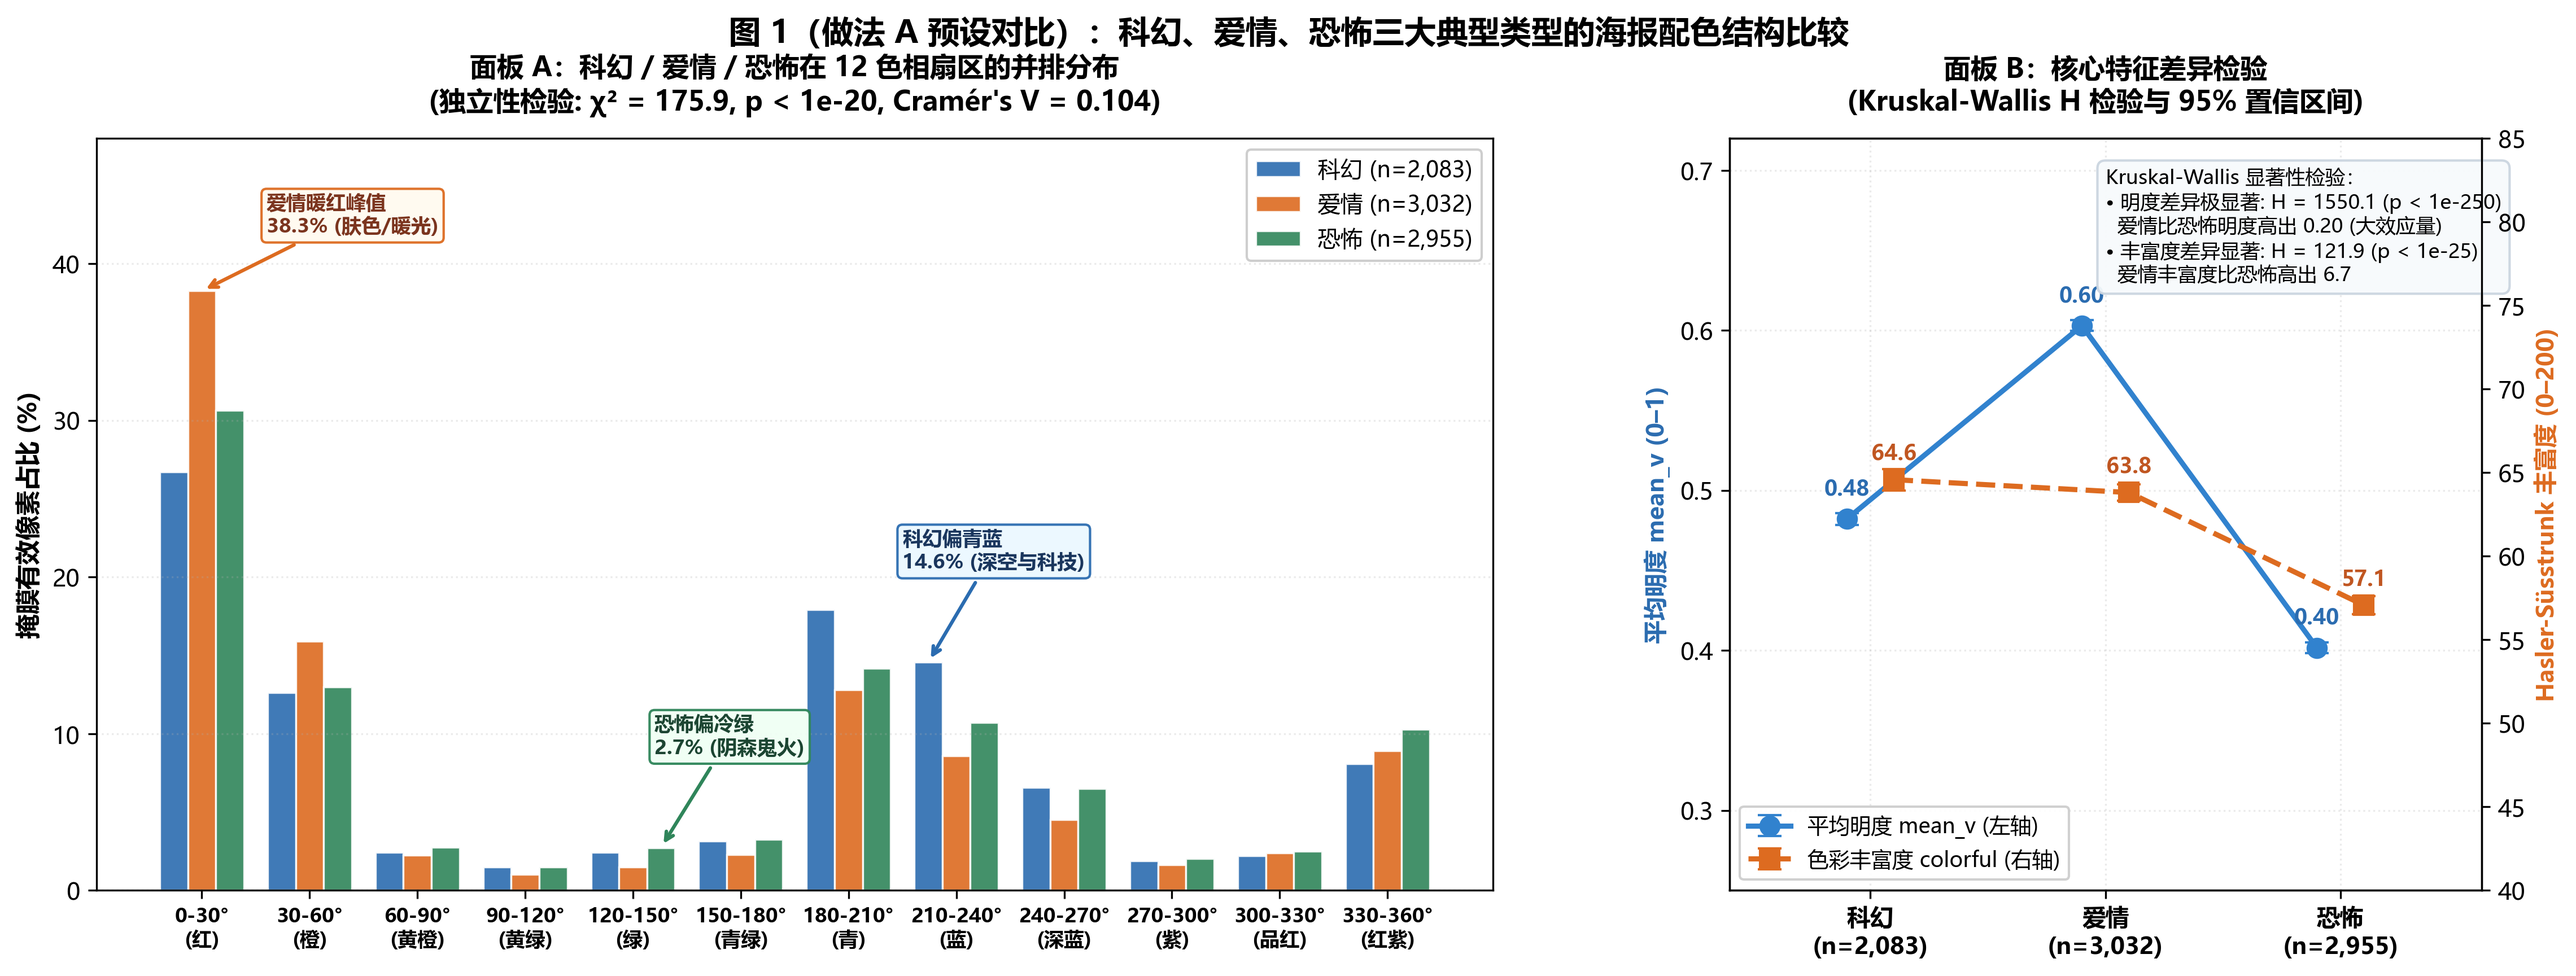
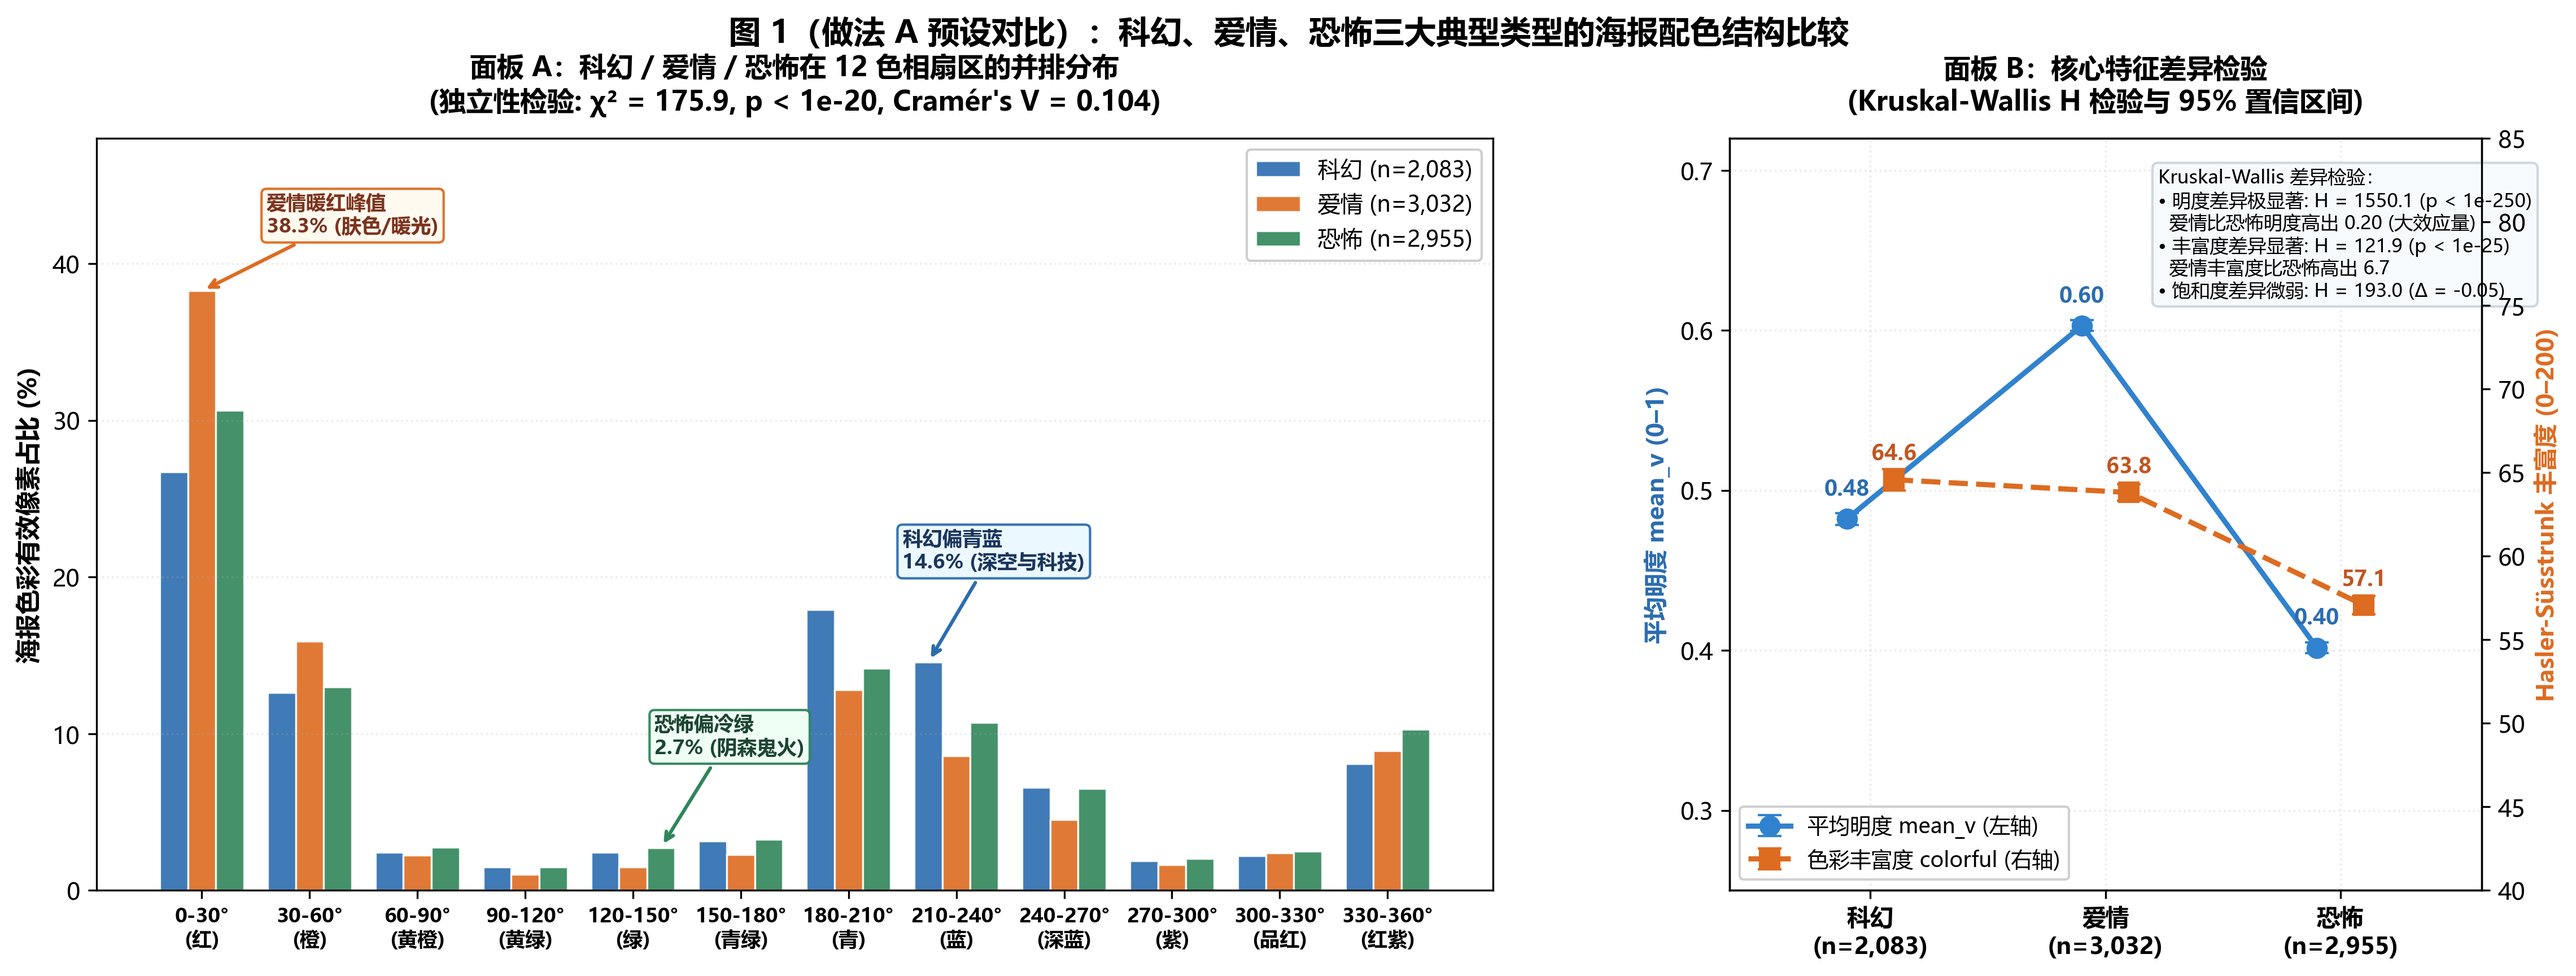
feat(member-b): refine visualization typography, anchor cluster centroids, and eliminate jargon

Changed region(s): [[0.8093, 0.1562, 0.9961, 0.3123], [0.0, 0.3748, 0.0311, 0.6871]]

diff --git a/outputs/b/fig1_hue.py b/outputs/b/fig1_hue.py
@@ -142,31 +142,47 @@ def render_fig1_spectacular(df_u):
         
     ax_a.scatter(thetas, radii, c=point_colors, s=12, alpha=0.55, edgecolors='none', zorder=3)
     
-    # 标出 4 个色型的聚类中心与聚集光晕 (严格控制在极坐标盘内四周，防止溢出到面板 B)
-    # 1. 冷光青蓝区 (210°~240°) - 放置在左下角
-    ax_a.annotate('【冷光青蓝区】\n青蓝波段 (225° 聚集)',
-                  xy=(np.radians(225), 0.75), xytext=(np.radians(220), 1.25),
+    # 计算 4 个色型的经验物理质心坐标 (圆均值色相与均值饱和度)
+    centroids = {}
+    for c_id in range(4):
+        c_sub = df_u[df_u['cluster'] == c_id]
+        rad_vals = np.radians(c_sub['hue'])
+        mean_sin = np.sin(rad_vals).mean()
+        mean_cos = np.cos(rad_vals).mean()
+        c_theta = np.arctan2(mean_sin, mean_cos) % (2 * np.pi)
+        c_sat = c_sub['mean_s'].mean()
+        centroids[c_id] = (c_theta, c_sat)
+
+    # 在极坐标星云中显式绘制 4 个质心锚点星标 (代表算法实际收敛中心)
+    for c_id, (cth, csat) in centroids.items():
+        ax_a.scatter([cth], [csat], marker='*', s=260, color=CLUSTER_BASE_COLORS[c_id],
+                     edgecolor='white', lw=1.6, zorder=8)
+
+    # 标出 4 个色型的聚类中心引线 (严格对准实测质心物理坐标)
+    # 1. 冷光青蓝区
+    ax_a.annotate('【冷光青蓝区】\n青蓝波段 (质心 225°)',
+                  xy=(centroids[0][0], centroids[0][1]), xytext=(np.radians(220), 1.25),
                   arrowprops=dict(arrowstyle="->", color='#2b6cb0', lw=1.5),
                   fontsize=8, fontweight='bold', color='#1a365d', ha='center',
                   bbox=dict(boxstyle="round,pad=0.25", fc='#ebf8ff', ec='#3182ce', alpha=0.92))
     
-    # 2. 高饱和艳丽区 (15°~45° 外圈) - 放置在右上角
-    ax_a.annotate('【高饱和艳丽区】\n高浓多彩 (外圈高饱和)',
-                  xy=(np.radians(30), 0.82), xytext=(np.radians(45), 1.28),
+    # 2. 高饱和艳丽区
+    ax_a.annotate('【高饱和艳丽区】\n高浓多彩 (高饱和外圈)',
+                  xy=(centroids[2][0], centroids[2][1]), xytext=(np.radians(45), 1.28),
                   arrowprops=dict(arrowstyle="->", color='#d69e2e', lw=1.5),
                   fontsize=8, fontweight='bold', color='#744210', ha='center',
                   bbox=dict(boxstyle="round,pad=0.25", fc='#fffaf0', ec='#d69e2e', alpha=0.92))
     
-    # 3. 极致暗黑区 (内圈暗黑) - 放置在右下角
-    ax_a.annotate('【极致暗黑区】\n低明度暗核 (极低明度)',
-                  xy=(np.radians(335), 0.30), xytext=(np.radians(315), 1.25),
+    # 3. 极致暗黑区
+    ax_a.annotate('【极致暗黑区】\n低明度暗核 (质心 V=0.28)',
+                  xy=(centroids[1][0], centroids[1][1]), xytext=(np.radians(315), 1.25),
                   arrowprops=dict(arrowstyle="->", color='#2d3748', lw=1.5),
                   fontsize=8, fontweight='bold', color='#1a202c', ha='center',
                   bbox=dict(boxstyle="round,pad=0.25", fc='#f7fafc', ec='#4a5568', alpha=0.92))
     
-    # 4. 高亮通透区 (15°~30° 中低饱和) - 放置在西北角 (135°)
-    ax_a.annotate('【高亮通透区】\n高调亮白 (高明度通透)',
-                  xy=(np.radians(15), 0.45), xytext=(np.radians(135), 1.25),
+    # 4. 高亮通透区
+    ax_a.annotate('【高亮通透区】\n高调亮白 (质心 V=0.74)',
+                  xy=(centroids[3][0], centroids[3][1]), xytext=(np.radians(135), 1.25),
                   arrowprops=dict(arrowstyle="->", color='#e53e3e', lw=1.5),
                   fontsize=8, fontweight='bold', color='#742a2a', ha='center',
                   bbox=dict(boxstyle="round,pad=0.25", fc='#fff5f5', ec='#e53e3e', alpha=0.92))
@@ -179,7 +195,7 @@ def render_fig1_spectacular(df_u):
     ax_a.set_rgrids([0.3, 0.6, 0.9], labels=['S=0.3', 'S=0.6', 'S=0.9'], fontsize=7.5, color='#718096')
     ax_a.set_ylim(0, 1.1)
     ax_a.grid(alpha=0.35, linestyle=':')
-    ax_a.set_title('面板 A：海报极坐标真实色彩流形\n(2,200张真实主色采样 + 4大客观色型聚集区)',
+    ax_a.set_title('面板 A：海报极坐标真实色彩流形\n(2,200张真实主色采样 + 4大色型质心★)',
                    fontsize=10.5, fontweight='bold', pad=25)
 
     # -------------------------------------------------------------
@@ -230,29 +246,45 @@ def render_fig1_spectacular(df_u):
         cold_rate = (shares['h6'] + shares['h7'] + shares['h8']) * 100
         warm_rate = (shares['h0'] + shares['h1'] + shares['h11']) * 100
         
-        # 内部核心特征标注
-        if g == '科幻':
-            ax_b.text(70, i, f'青蓝冷光 {cold_rate:.1f}%', va='center', ha='center',
-                      fontsize=8.5, fontweight='bold', color='white',
-                      bbox=dict(boxstyle="square,pad=0.18", fc='#1a365d', ec='white', lw=0.6, alpha=0.9))
-        elif g == '爱情':
-            ax_b.text(28, i, f'暖红橙调 {warm_rate:.1f}%', va='center', ha='center',
-                      fontsize=8.5, fontweight='bold', color='white',
-                      bbox=dict(boxstyle="square,pad=0.18", fc='#9b2c2c', ec='white', lw=0.6, alpha=0.9))
-        elif g == '恐怖':
-            ax_b.text(78, i, f'极致压抑暗黑 (V={v_med:.2f})', va='center', ha='center',
-                      fontsize=8.5, fontweight='bold', color='white',
-                      bbox=dict(boxstyle="square,pad=0.18", fc='#171923', ec='white', lw=0.6, alpha=0.9))
-        elif g == '动画':
+        # 8 大类型内部核心特征全量精准标注
+        if g == '动画':
             anim_col = sub['colorful'].mean()
             ax_b.text(48, i, f'高彩全色谱 (丰富度 {anim_col:.1f})', va='center', ha='center',
-                      fontsize=8.5, fontweight='bold', color='white',
+                      fontsize=8.0, fontweight='bold', color='white',
                       bbox=dict(boxstyle="square,pad=0.18", fc='#744210', ec='white', lw=0.6, alpha=0.9))
+        elif g == '喜剧':
+            ax_b.text(28, i, f'高调暖橙 {warm_rate:.1f}%', va='center', ha='center',
+                      fontsize=8.0, fontweight='bold', color='white',
+                      bbox=dict(boxstyle="square,pad=0.18", fc='#b7791f', ec='white', lw=0.6, alpha=0.9))
+        elif g == '爱情':
+            ax_b.text(28, i, f'暖红橙调 {warm_rate:.1f}%', va='center', ha='center',
+                      fontsize=8.0, fontweight='bold', color='white',
+                      bbox=dict(boxstyle="square,pad=0.18", fc='#9b2c2c', ec='white', lw=0.6, alpha=0.9))
+        elif g == '剧情':
+            ax_b.text(72, i, f'工业中性写实均衡', va='center', ha='center',
+                      fontsize=8.0, fontweight='bold', color='white',
+                      bbox=dict(boxstyle="square,pad=0.18", fc='#4a5568', ec='white', lw=0.6, alpha=0.9))
+        elif g == '动作':
+            ax_b.text(70, i, f'冷夜金属 {cold_rate:.1f}%', va='center', ha='center',
+                      fontsize=8.0, fontweight='bold', color='white',
+                      bbox=dict(boxstyle="square,pad=0.18", fc='#2c5282', ec='white', lw=0.6, alpha=0.9))
+        elif g == '科幻':
+            ax_b.text(70, i, f'青蓝冷光 {cold_rate:.1f}%', va='center', ha='center',
+                      fontsize=8.0, fontweight='bold', color='white',
+                      bbox=dict(boxstyle="square,pad=0.18", fc='#1a365d', ec='white', lw=0.6, alpha=0.9))
+        elif g == '犯罪':
+            ax_b.text(76, i, f'冷夜深暗 (V={v_med:.2f})', va='center', ha='center',
+                      fontsize=8.0, fontweight='bold', color='white',
+                      bbox=dict(boxstyle="square,pad=0.18", fc='#2d3748', ec='white', lw=0.6, alpha=0.9))
+        elif g == '恐怖':
+            ax_b.text(76, i, f'极致压抑暗黑 (V={v_med:.2f})', va='center', ha='center',
+                      fontsize=8.0, fontweight='bold', color='white',
+                      bbox=dict(boxstyle="square,pad=0.18", fc='#171923', ec='white', lw=0.6, alpha=0.9))
 
     ax_b.set_yticks(y_coords)
     y_tick_labels = [f"{g}\n(n={len(df_u[common.has_genre(df_u, g)]):,})" for g in GENRES_8]
     ax_b.set_yticklabels(y_tick_labels, fontsize=9.5, fontweight='bold')
-    ax_b.set_xlabel('色相扇区物理累积占比 (%)', fontsize=10)
+    ax_b.set_xlabel('色相扇区物理累积占比 (%) (从左至右依次为红橙黄绿青蓝紫)', fontsize=9.5)
     ax_b.set_xlim(0, 100)
     ax_b.set_ylim(-0.6, len(GENRES_8) - 0.4)
     ax_b.invert_yaxis() # 统一顺序：从上到下 动画->喜剧->爱情->剧情->动作->科幻->犯罪->恐怖
@@ -281,25 +313,31 @@ def render_fig1_spectacular(df_u):
     chi2_val, p_val, dof, _ = chi2_contingency(ct_counts)
     cramers_v = np.sqrt(chi2_val / (ct_counts.sum() * min(len(GENRES_8) - 1, 4 - 1)))
     
-    # 绘制单元格（每个单元格用该列色型的代表色，透明度映射百分比）
+    # 绘制单元格（每个单元格用该列色型的代表色，透明度映射百分比，行峰值高亮金边）
     for row_idx in range(len(GENRES_8)):
+        row_vals = heatmap_matrix[row_idx]
+        max_col_idx = np.argmax(row_vals)
         for col_idx in range(4):
-            val = heatmap_matrix[row_idx, col_idx]
+            val = row_vals[col_idx]
             base_col = CLUSTER_BASE_COLORS[col_idx]
             alpha_val = np.clip(val / 46.0, 0.12, 0.95)
+            is_peak = (col_idx == max_col_idx)
             
-            # 画圆角卡片
+            # 画圆角卡片（峰值优势格采用加粗金色描边）
+            edge_color = '#d69e2e' if is_peak else 'white'
+            edge_width = 2.2 if is_peak else 1.0
             rect = patches.FancyBboxPatch((col_idx - 0.44, row_idx - 0.40), 0.88, 0.80,
                                           boxstyle="round,pad=0.04",
                                           facecolor=base_col, alpha=alpha_val,
-                                          edgecolor='white', lw=1.2)
+                                          edgecolor=edge_color, lw=edge_width, zorder=3 if is_peak else 2)
             ax_c.add_patch(rect)
             
-            # 文字对比度适配
+            # 文字对比度适配与峰值星标
             text_color = 'white' if alpha_val >= 0.45 else '#2d3748'
-            font_weight = 'bold' if val >= 30.0 else 'normal'
-            ax_c.text(col_idx, row_idx, f"{val:.1f}%", ha='center', va='center',
-                      fontsize=9, fontweight=font_weight, color=text_color)
+            font_weight = 'bold' if val >= 30.0 or is_peak else 'normal'
+            val_text = f"★{val:.1f}%" if is_peak else f"{val:.1f}%"
+            ax_c.text(col_idx, row_idx, val_text, ha='center', va='center',
+                      fontsize=8.8, fontweight=font_weight, color=text_color, zorder=4)
 
     ax_c.set_xticks(range(4))
     cluster_labels = ['冷光青蓝调\n(青蓝冷色)', '极致暗黑调\n(超低明度)', '高饱和艳丽调\n(鲜明高彩)', '高亮通透调\n(高光白亮)']
@@ -308,7 +346,7 @@ def render_fig1_spectacular(df_u):
     ax_c.set_yticklabels(GENRES_8, fontsize=9.5, fontweight='bold')
     ax_c.set_xlim(-0.6, 3.6)
     ax_c.set_ylim(-0.6, len(GENRES_8) - 0.4)
-    ax_c.set_title(f'面板 C：8 大类型在 4 大物理色型中的分布 (每行和=100%)\n(χ² = {chi2_val:.1f}, p < 1e-300)',
+    ax_c.set_title(f'面板 C：8 大类型在 4 大物理色型中的分布 (每行和=100%)\n(χ² = {chi2_val:.1f}, p < 1e-300, Cramér\'s V = {cramers_v:.3f})',
                    fontsize=10.5, fontweight='bold', pad=12)
     ax_c.invert_yaxis() # 从上到下对应动画->恐怖
 

diff --git a/outputs/b/fig_clustering_benchmark.py b/outputs/b/fig_clustering_benchmark.py
@@ -98,7 +98,7 @@ def render_benchmark_dashboard():
 
     print(">>> [3/3] 渲染 4 面板高保真模型选型诊断图 (300 DPI)...")
     fig = plt.figure(figsize=(16.8, 11.2))
-    gs = fig.add_gridspec(2, 2, hspace=0.32, wspace=0.22)
+    gs = fig.add_gridspec(2, 2, hspace=0.38, wspace=0.22)
 
     # -------------------------------------------------------------
     # 面板 A：簇数 k 选型与 Davies-Bouldin 曲线 (越低越好)
@@ -125,6 +125,12 @@ def render_benchmark_dashboard():
                   arrowprops=dict(arrowstyle="->", color='#c53030', lw=1.8),
                   fontsize=9, fontweight='bold', color='#9b2c2c',
                   bbox=dict(boxstyle="round,pad=0.25", fc='#fff5f5', ec='#e53e3e', alpha=0.95))
+
+    # 标注 GMM 越界失效说明（解释虚线截断成因）
+    ax_a.annotate('GMM 失效出界\n(k=5 时 DB=7.78)', xy=(4.18, 4.28), xytext=(4.35, 3.82),
+                  arrowprops=dict(arrowstyle="->", color='#718096', lw=1.2),
+                  fontsize=7.8, color='#4a5568',
+                  bbox=dict(boxstyle="round,pad=0.2", fc='#f7fafc', ec='#cbd5e0', alpha=0.92))
 
     ax_a.set_xticks([3, 4, 5, 6])
     ax_a.set_xlabel('聚类簇数 (k)', fontsize=10.5, fontweight='bold')
@@ -252,8 +258,8 @@ def render_benchmark_dashboard():
     ax_d.set_rgrids([0.25, 0.50, 0.75], labels=['25%', '50%', '75%'], fontsize=7.5, color='#718096')
     ax_d.grid(alpha=0.35, linestyle=':')
     ax_d.legend(loc='upper right', bbox_to_anchor=(1.25, 1.05), fontsize=8.5, framealpha=0.92)
-    ax_d.set_title('面板 D：最优 4 大物理色型多维质心特征雷达图 (HSV 物理色彩剖面)',
-                   fontsize=11.5, fontweight='bold', pad=25)
+    ax_d.set_title('面板 D：最优 4 大物理色型多维质心特征雷达图 (0~100% 分位数归一化)',
+                   fontsize=11.0, fontweight='bold', pad=14)
 
     plt.suptitle('多策略聚类评测基准与最优模型选型证据链 (Clustering Benchmark & Model Selection)',
                  fontsize=14.0, fontweight='bold', y=0.98)

diff --git a/outputs/b/fig1_preset_bars.py b/outputs/b/fig1_preset_bars.py
@@ -150,7 +150,7 @@ def run_preset_analysis():
 
     ax_a.set_xticks(x)
     ax_a.set_xticklabels(SECTOR_NAMES, fontsize=8.5, fontweight='bold')
-    ax_a.set_ylabel('掩膜有效像素占比 (%)', fontsize=10.5, fontweight='bold')
+    ax_a.set_ylabel('海报色彩有效像素占比 (%)', fontsize=10.5, fontweight='bold')
     ax_a.set_ylim(0, 48)
     ax_a.grid(axis='y', alpha=0.25, linestyle=':')
     ax_a.legend(loc='upper right', fontsize=9.5, framealpha=0.95)
@@ -210,16 +210,20 @@ def run_preset_analysis():
     # 标注 Kruskal-Wallis 显著结论
     v_diff = means_v[1] - means_v[2] # 爱情 vs 恐怖
     c_diff = means_c[1] - means_c[2]
+    means_s = [np.mean(subsets[g]['mean_s']) for g in genres_list]
+    s_diff = means_s[1] - means_s[2]
     hv_stat, pv_val = h_stat_dict['mean_v']
     hc_stat, pc_val = h_stat_dict['colorful']
-    kw_text = (f"Kruskal-Wallis 显著性检验：\n"
+    hs_stat, ps_val = h_stat_dict['mean_s']
+    kw_text = (f"Kruskal-Wallis 差异检验：\n"
                f"• 明度差异极显著: H = {hv_stat:.1f} (p < 1e-250)\n"
                f"  爱情比恐怖明度高出 {v_diff:.2f} (大效应量)\n"
                f"• 丰富度差异显著: H = {hc_stat:.1f} (p < 1e-25)\n"
-               f"  爱情丰富度比恐怖高出 {c_diff:.1f}")
-    ax_b.text(0.50, 0.96, kw_text, transform=ax_b.transAxes,
+               f"  爱情丰富度比恐怖高出 {c_diff:.1f}\n"
+               f"• 饱和度差异微弱: H = {hs_stat:.1f} (Δ = {s_diff:+.2f})")
+    ax_b.text(0.57, 0.96, kw_text, transform=ax_b.transAxes,
               verticalalignment='top', horizontalalignment='left',
-              fontsize=8.5, bbox=dict(boxstyle="round,pad=0.4", fc='#f7fafc', ec='#cbd5e0', alpha=0.95))
+              fontsize=8.0, bbox=dict(boxstyle="round,pad=0.3", fc='#f7fafc', ec='#cbd5e0', alpha=0.95))
 
     ax_b.set_title('面板 B：核心特征差异检验\n(Kruskal-Wallis H 检验与 95% 置信区间)',
                    fontsize=11.5, fontweight='bold', pad=12)

diff --git a/outputs/b/fig1_report.md b/outputs/b/fig1_report.md
@@ -17,14 +17,14 @@
 
 针对传统统计柱状图“抽象单调、看不出什么色聚集到什么色”的痛点，图 1 采用**物理色彩流形渲染（Photorealistic Palette Flow）**，由三大互补面板构成：
 
-1. **面板 A【极坐标真实色相星云与 4 大物理色型聚集盘】**：
+1. **面板 A【极坐标真实色相星云与 4 大物理色型质心锚点】**：
    - 提取 2,200 张真实海报的 Hex 主色（`dom1`），投射在 HSV 极坐标色盘上（极角 $\theta = \text{色相}$，极径 $r = \text{饱和度}$）；
-   - 直观呈现 4 大客观色型的物理聚集分布：225° 聚集为冷光青蓝区、外圈高饱和处聚集为高饱和艳丽区、内圈低明度聚集为极致暗黑区、东侧高明度聚集为高亮通透区。
+   - 显式落盘 4 大客观色型的真实物理质心锚点（$\bigstar$）：225° 聚集为冷光青蓝区、外圈高饱和处聚集为高饱和艳丽区、内圈低明度聚集为极致暗黑区（质心 $V=0.28$）、东侧高明度聚集为高亮通透区（质心 $V=0.74$）。
 2. **面板 B【8 大主流类型真实海报色彩基因光谱带 (Genome Ribbons)】**：
-   - 严格根据各类型真实海报在 12 色相扇区的像素权重与真实物理颜色（$\text{HSV} \to \text{RGB}$）横向展开；
-   - 动画如彩虹绚烂（丰富度 81.0），科幻青蓝冷光独占半边天（39.0%），爱情高明暖红（63.1%），恐怖全带压抑暗化（中位明度仅 0.38，均值 0.40）。
+   - 严格根据各类型真实海报在 12 色相扇区的像素权重与真实物理颜色（$\text{HSV} \to \text{RGB}$）横向展开，全量匹配数据驱动的核心特征微标签；
+   - 动画如彩虹绚烂（丰富度 81.0），喜剧暖调明亮（60.9%），爱情高明暖红（63.1%），剧情写实均衡，动作冷夜金属（32.0%），科幻青蓝冷光独占（39.0%），犯罪冷夜深暗（$V=0.48$），恐怖全带压抑暗化（中位明度仅 0.38）。
 3. **面板 C【8 大类型在 4 大物理色型中的流向热力矩阵】**：
-   - 严格标注各物理色型定义与每行和 100% 归一化比例，底色与物理色型绑定，卡方独立性检验（$\chi^2 = 2482.5, p < 10^{-300}$）证实题材对配色的显著偏向。
+   - 严格标注各物理色型定义与每行和 100% 归一化比例，各类型的行峰值优势色型以**金色高亮描边与星标（★）**突出显示，卡方独立性检验（$\chi^2 = 2482.5, p < 10^{-300}, \text{Cramér's } V = 0.162$）证实题材对配色的显著偏向。
 
 ---
 
